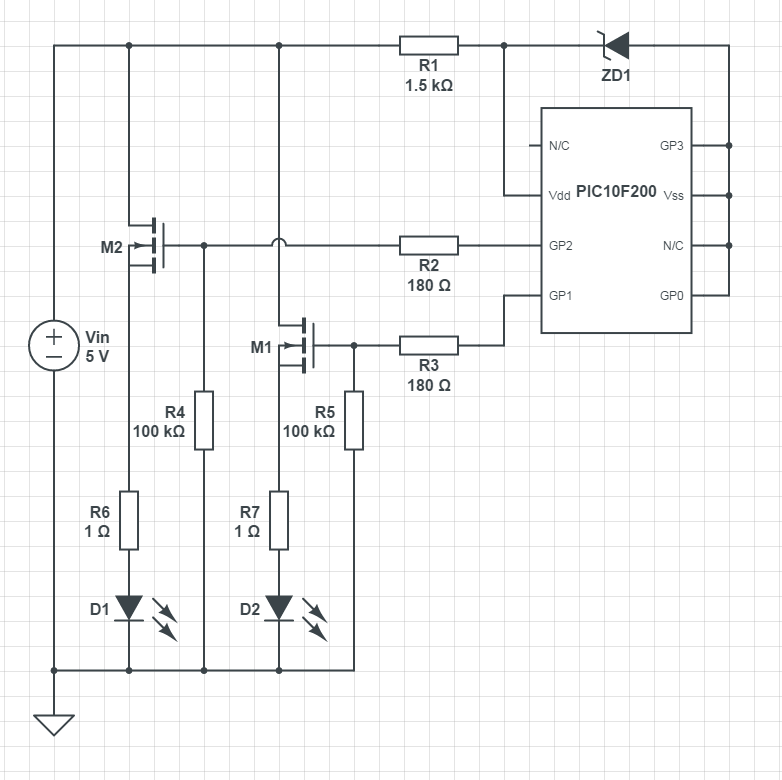
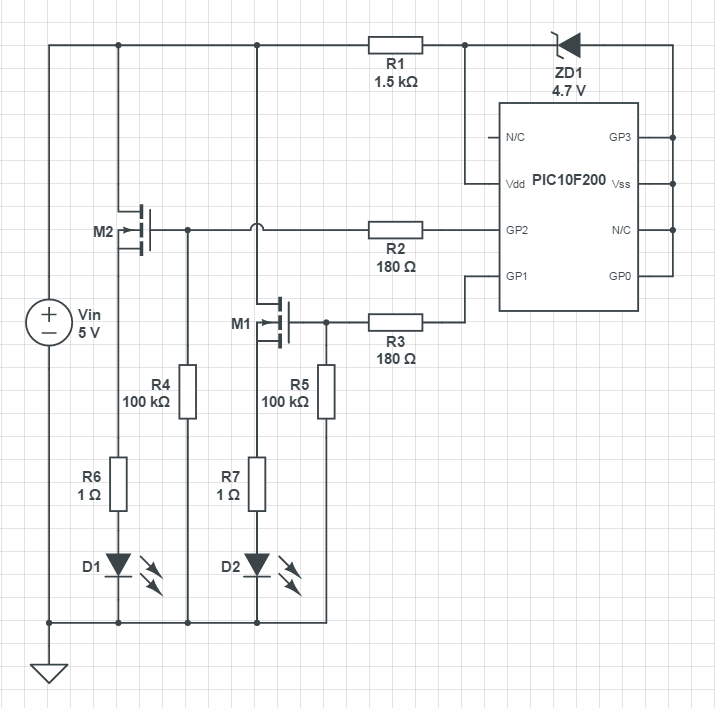
Revise turtle led project README. Update schematics image.

Changed region(s): [[0.0308, 0.0311, 0.9538, 0.9633], [0.9846, 0.0311, 1.0, 0.7147], [0.9846, 0.7458, 1.0, 0.9944]]

diff --git a/Assembler_(PIC)/Turtle_lamp/README.md b/Assembler_(PIC)/Turtle_lamp/README.md
@@ -8,11 +8,11 @@ A turtle-shaped handicraft lamp I bought second-hand got a facelift with a PIC m
 
 The least resource-packed of PIC microcontrollers, a PIC10F200 (16-byte RAM, 256 instructions), functions as a simulated sine PWM signal source, feeding two 1-watt leds via MOSFETs.
 
-R1 and ZD1 form a current limiting voltage divider to minimize µC current consumption. Not that it makes much of a difference in this application, because leds suck the most of the juice drawn by the circuit anyway.
+Nokia SMPS charger has clearly been designed to supply a very specific load. While powering the circuit, the charger outputs voltages in the range of 6.5 to 6.9 volts, which is dangerously high for the µC. Thus, R1 and ZD1 form a voltage divider to match the supply voltage with the load. Resistor value was chosen based on empiric tests - finding the largest resistance without drop-outs, and going little backwards from there.
 
-The purpose of R2 and R3 is to protect the µC ports from outrush of current required to charge MOSFET gate capacitance. They are probably an overkill, but better safe than sorry.
+Originally, I planned to connect leds to MOSFET drain, leaving source connected directly to ground. The purpose of R2 and R3 was to protect the µC ports from outrush of current required to charge MOSFET gate capacitance. At the end of the day, I ended up placing leds further downstream to MOSFET source. This should render R2 and R3 useless, but they remained physically connected in the circuit nevertheless.
 
-Initially powering the circuit induces input voltage appearing in MOSFET drains into gate lines, potentially causing FETs to switch momentarily. R4 and R5 are there to pull down the gates, which prevents this annoying led flash. Resistor values are not by any means critical as long as R4/R2 and R5/R3 ratios remain very large to ensure solid switching voltages.
+Initially powering the circuit, naturally, causes supply voltage appear in each MOSFET drain. This sudden voltage leap induces transient voltage into gate lines, potentially causing FETs to switch for a split of a second. R4 and R5 pull down the gates, which prevents this undesired led flash phenomenon. Resistor values are not by any means critical as long as R4/R2 and R5/R3 ratios remain very large to ensure solid switching voltages.
 
 R6 and R7 are included to provide temperature stabilization for led current draw.
 
@@ -20,4 +20,4 @@ R6 and R7 are included to provide temperature stabilization for led current draw
 
 <img src="https://github.com/1400883/portfolio/blob/master/Assembler_(PIC)/Turtle_lamp/circuit.png?raw=true" width="500" />
 
-[![Click to watch the lamp in action](http://img.youtube.com/vi/1zPA86Bnflw/0.jpg)](https://www.youtube.com/watch?v=1zPA86Bnflw "Click to watch the Lamp in action")
+[![Click to see the lamp in action](http://img.youtube.com/vi/ZocbIXfMZGQ/0.jpg)](https://www.youtube.com/watch?v=ZocbIXfMZGQ "Click to see the lamp in action")
